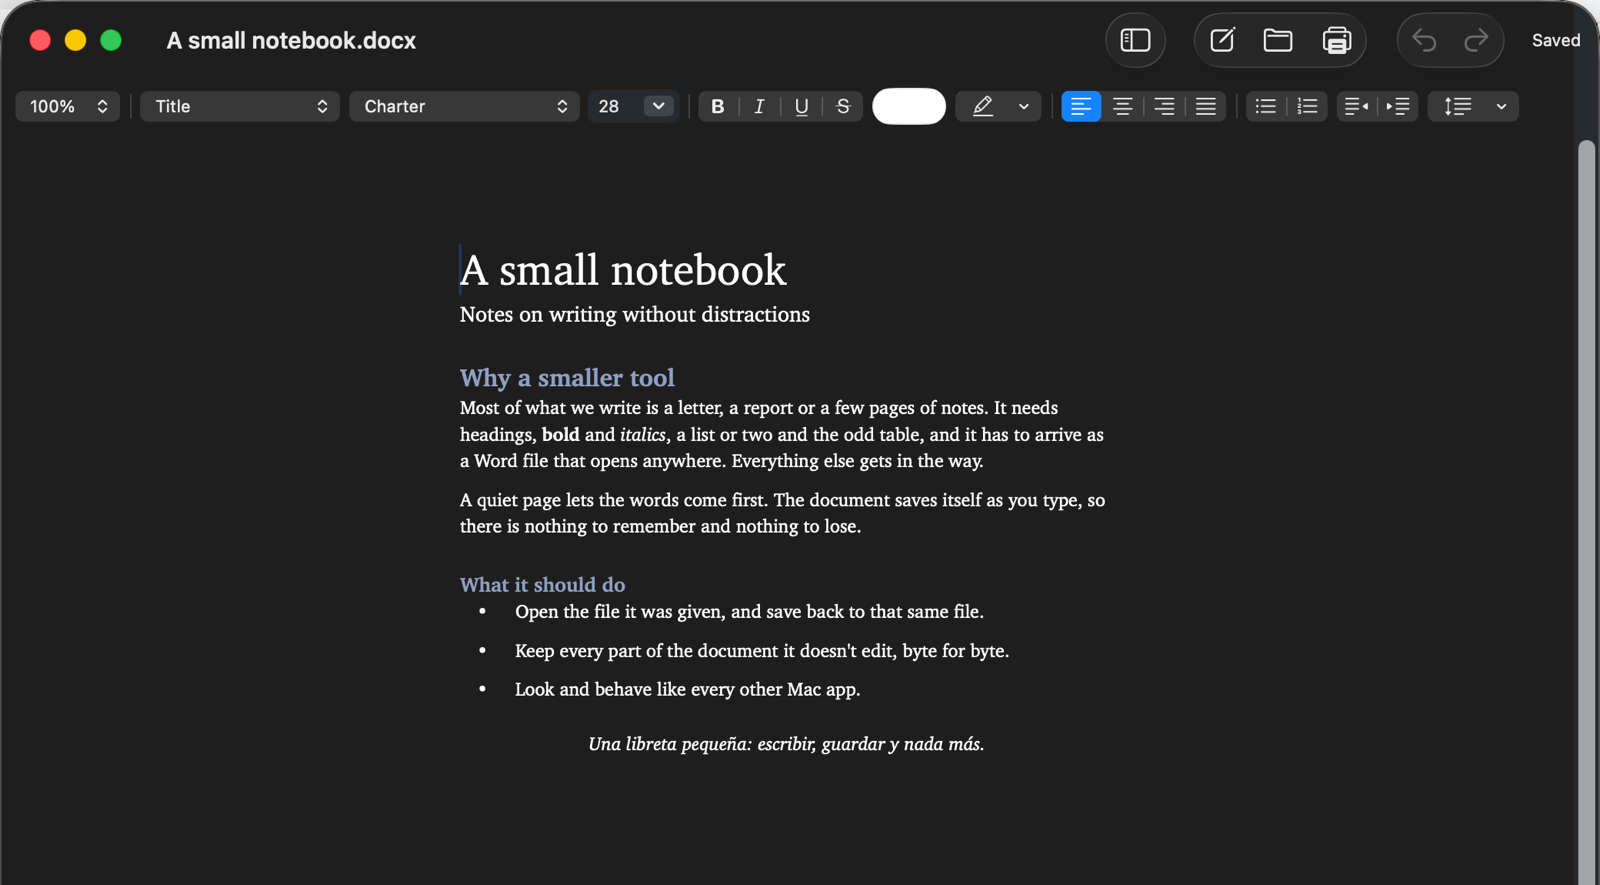
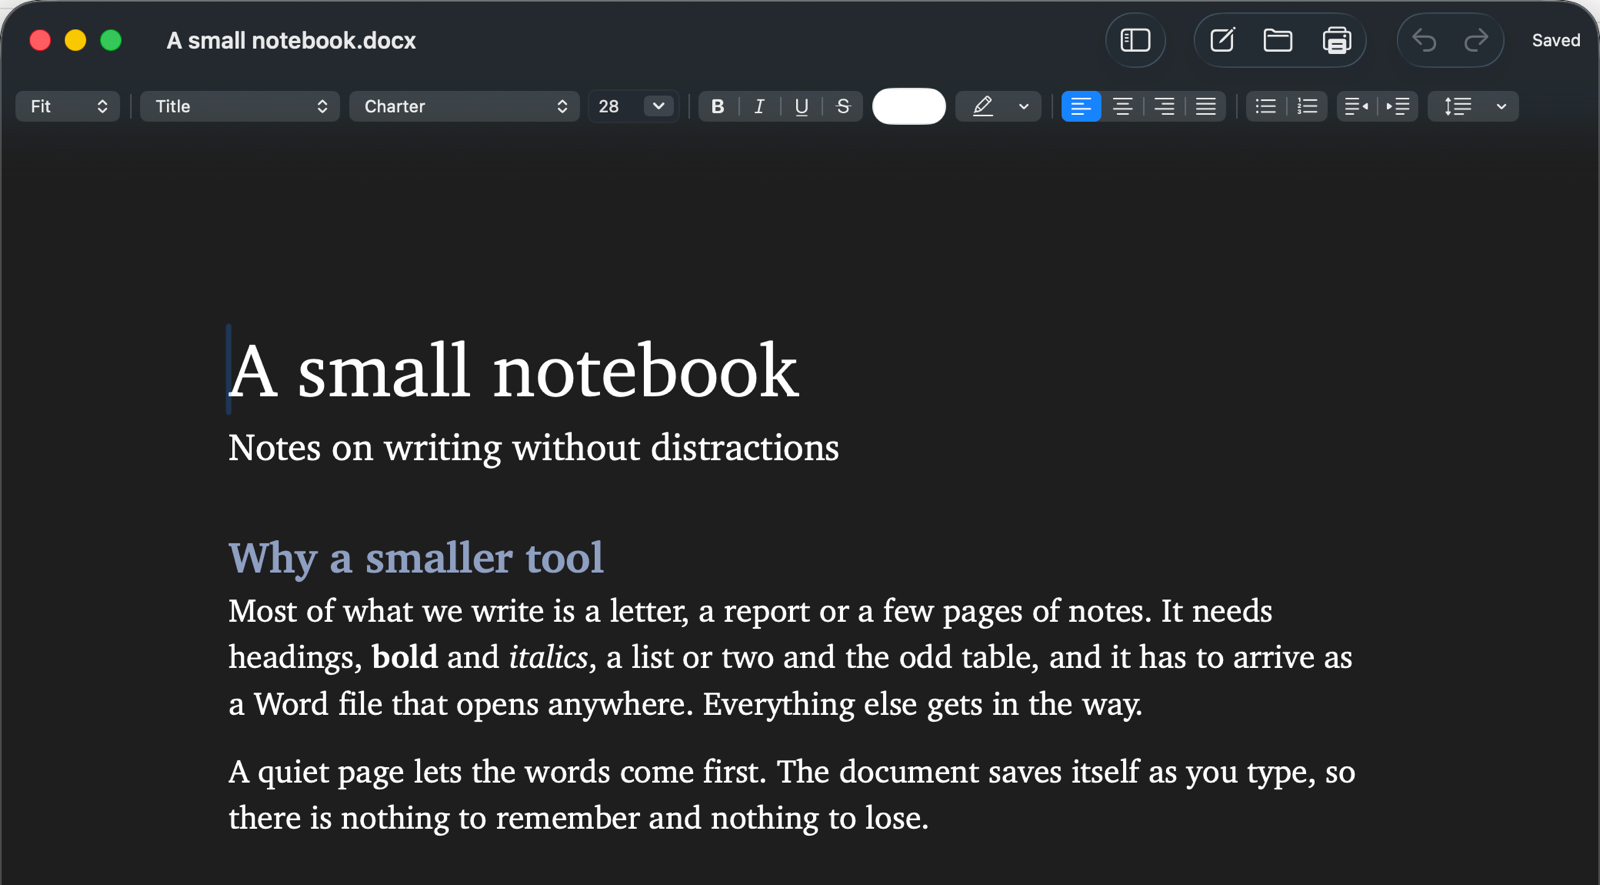
Site screenshots at Fit zoom, so the text reads at a glance

diff --git a/scripts/site/SiteScreenshotUITests.swift b/scripts/site/SiteScreenshotUITests.swift
@@ -10,7 +10,8 @@ final class SiteScreenshotUITests: LibretillaUITestCase {
             let url = work.appendingPathComponent("A small notebook.docx")
             try? FileManager.default.removeItem(at: url)
             try FileManager.default.copyItem(at: URL(fileURLWithPath: sample), to: url)
-            app.launchArguments += ["-LibretillaUITestAppearance", mode, "-LibretillaZoom", "1"]
+            // Zoom 0 is Fit, the default: the page fills the window's width, so the text reads at a glance.
+            app.launchArguments += ["-LibretillaUITestAppearance", mode, "-LibretillaZoom", "0"]
             app.launch()
             // Close the untitled window opened at launch, so the document doesn't open as its second tab.
             let untitled = app.windows.firstMatch
